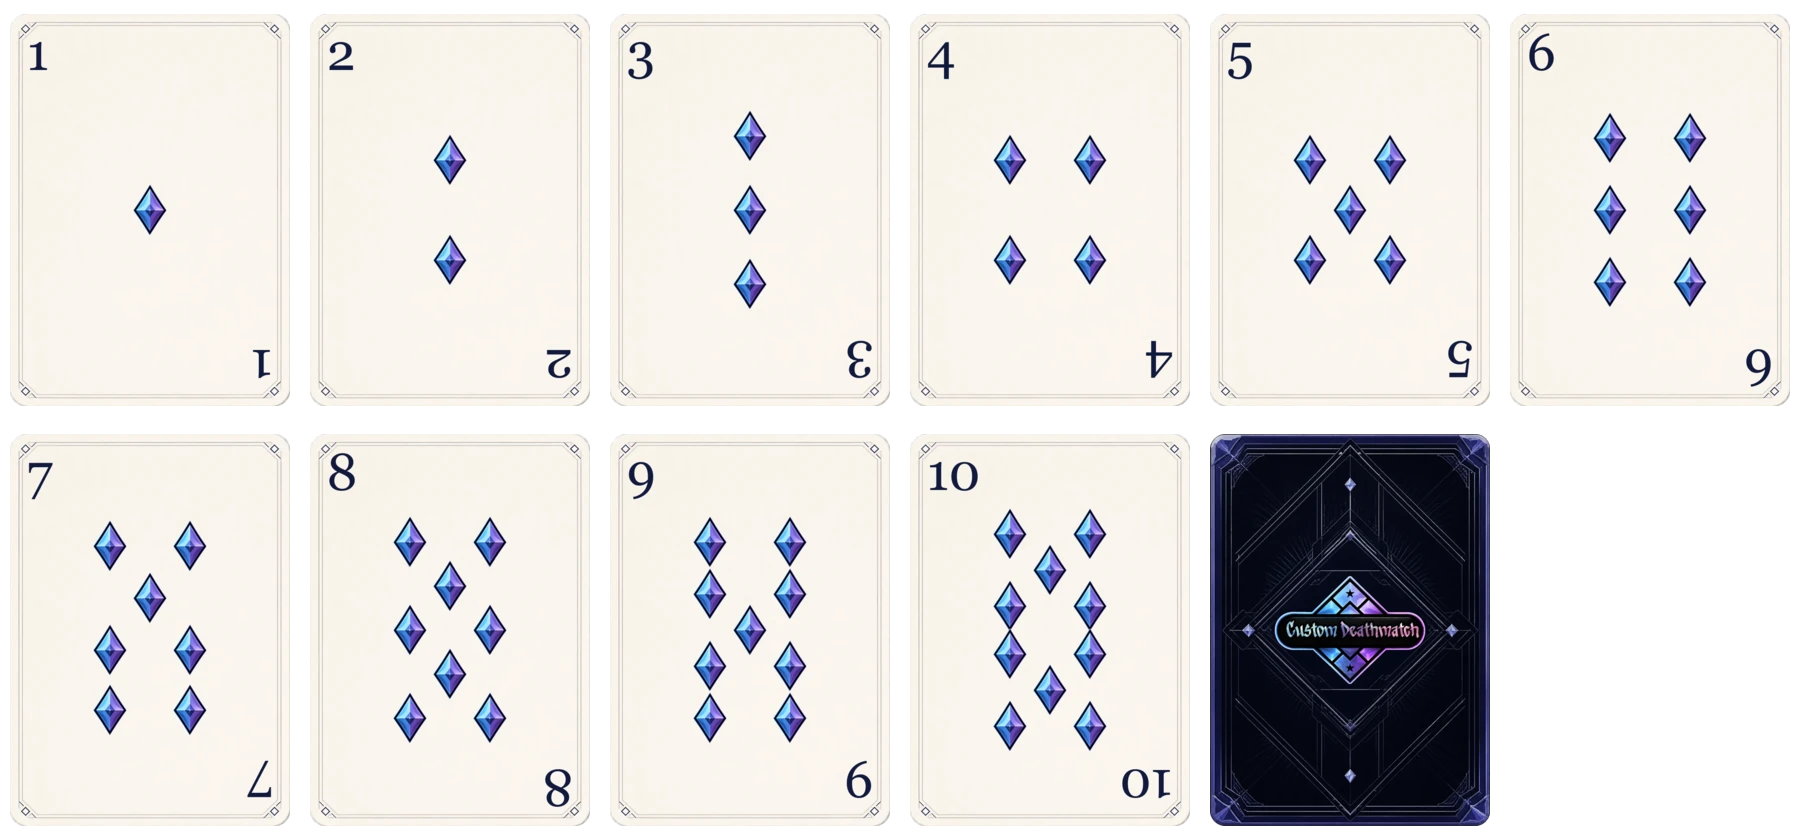
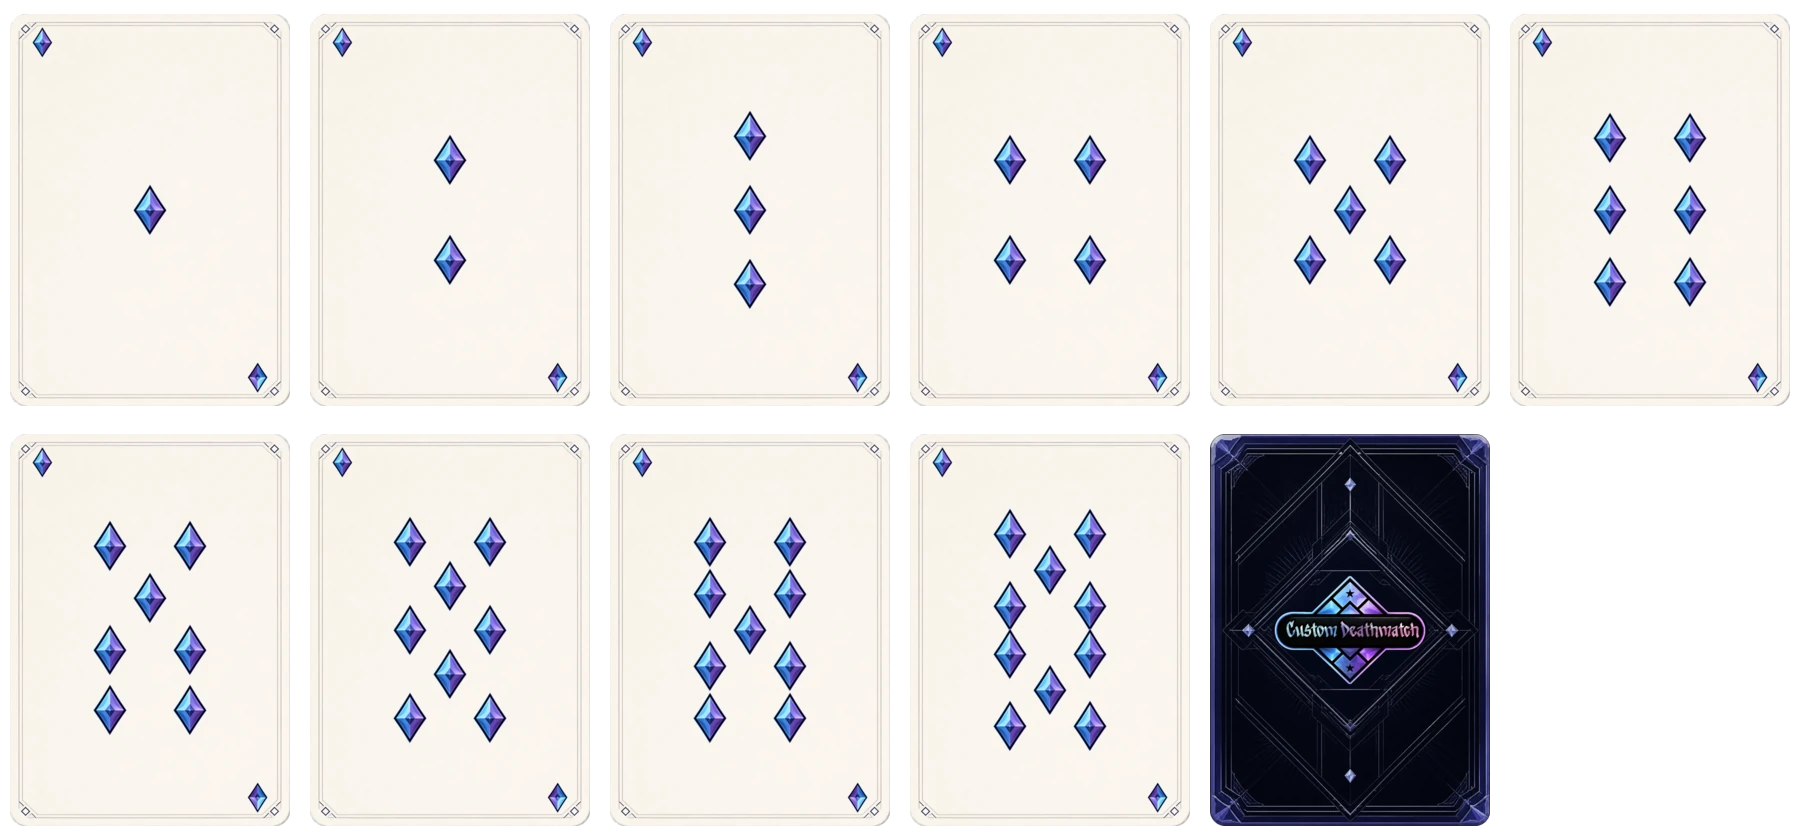
fix: replace card corner numbers with symbols

diff --git a/components/game/cards/DoubleSidedPokerCard.tsx b/components/game/cards/DoubleSidedPokerCard.tsx
@@ -3,14 +3,11 @@ import { cn } from '@/lib/utils';
 import styles from './DoubleSidedPokerCard.module.css';
 
 export type DoubleSidedPokerCardSize = 'tiny' | 'sm' | 'md' | 'lg';
-export type DoubleSidedPokerCardFace = 'front' | 'back' | 'hidden';
+export type DoubleSidedPokerCardFace = 'front' | 'back';
 
 const COLUMNS = 6;
 const ROWS = 4;
-const HIDDEN_INDEX = 20;
-
-function spriteIndex(value: number | null, face: DoubleSidedPokerCardFace) {
-  if (face === 'hidden' || value == null) return HIDDEN_INDEX;
+function spriteIndex(value: number, face: DoubleSidedPokerCardFace) {
   const safeValue = Math.min(10, Math.max(1, Math.trunc(value)));
   return (face === 'back' ? 10 : 0) + safeValue - 1;
 }
@@ -22,7 +19,7 @@ export default function DoubleSidedPokerCard({
   className,
   ariaLabel,
 }: {
-  value: number | null;
+  value: number;
   face: DoubleSidedPokerCardFace;
   size?: DoubleSidedPokerCardSize;
   className?: string;
@@ -34,10 +31,7 @@ export default function DoubleSidedPokerCard({
   const style: CSSProperties = {
     backgroundPosition: `${(column / (COLUMNS - 1)) * 100}% ${(row / (ROWS - 1)) * 100}%`,
   };
-  const label =
-    face === 'hidden' || value == null
-      ? '비공개 카드 뒷면'
-      : `${face === 'front' ? '앞면' : '뒷면'} 숫자 ${value}`;
+  const label = `${face === 'front' ? '앞면' : '뒷면'} 숫자 ${value}`;
   return (
     <span
       role="img"
@@ -45,7 +39,7 @@ export default function DoubleSidedPokerCard({
       className={cn(styles.card, styles[size], className)}
       style={style}
       data-card-face={face}
-      data-card-value={value ?? undefined}
+      data-card-value={value}
     />
   );
 }

diff --git a/components/game/modules/double-sided-poker/index.tsx b/components/game/modules/double-sided-poker/index.tsx
@@ -84,21 +84,24 @@ function PlayerPanel({
       </div>
 
       <div className="mt-2 flex items-end justify-center gap-2 sm:gap-3">
-        <div className="text-center">
-          <DoubleSidedPokerCard value={player.card?.front ?? null} face="front" size="md" />
-          <p className="text-cdm-fg mt-0.5 text-[10px] font-black">앞면 · 공개</p>
-        </div>
-        <div className="text-center">
-          <DoubleSidedPokerCard
-            value={player.card?.back ?? null}
-            face={player.card?.back == null ? 'hidden' : 'back'}
-            size="md"
-          />
-          <p className="text-cdm-fg mt-0.5 text-[10px] font-black">
-            {player.card?.back == null ? '뒷면 · 비공개' : '뒷면'}
-          </p>
-        </div>
+        {player.card && (
+          <div className="text-center">
+            <DoubleSidedPokerCard value={player.card.front} face="front" size="md" />
+            <p className="text-cdm-fg mt-0.5 text-[10px] font-black">앞면 · 공개</p>
+          </div>
+        )}
+        {player.card?.back != null && (
+          <div className="text-center">
+            <DoubleSidedPokerCard value={player.card.back} face="back" size="md" />
+            <p className="text-cdm-fg mt-0.5 text-[10px] font-black">뒷면 · 본인 공개</p>
+          </div>
+        )}
       </div>
+      {player.card && player.card.back == null && (
+        <p className="text-cdm-fg-subtle mt-1 text-center text-[10px] font-bold">
+          뒷면 숫자는 소유자만 확인할 수 있습니다.
+        </p>
+      )}
 
       <div className="mt-2 grid gap-1.5">
         <BetLane

diff --git a/components/archive/viewers/double-sided-poker/index.tsx b/components/archive/viewers/double-sided-poker/index.tsx
@@ -83,13 +83,14 @@ export default function DoubleSidedPokerViewer({ record }: { record: GameRecordF
                     <div key={playerId} className="bg-cdm-bg-elev-1 rounded-cdm-md p-2 text-center">
                       <p className="text-cdm-fg-muted truncate text-[10px]">{player.nickname}</p>
                       <div className="mt-1 flex justify-center gap-1">
-                        <DoubleSidedPokerCard value={card?.front ?? null} face="front" size="sm" />
-                        <DoubleSidedPokerCard
-                          value={card?.back ?? null}
-                          face={card?.back == null ? 'hidden' : 'back'}
-                          size="sm"
-                        />
+                        {card && <DoubleSidedPokerCard value={card.front} face="front" size="sm" />}
+                        {card?.back != null && (
+                          <DoubleSidedPokerCard value={card.back} face="back" size="sm" />
+                        )}
                       </div>
+                      {card && card.back == null && (
+                        <p className="text-cdm-fg-subtle mt-1 text-[9px]">뒷면 비공개</p>
+                      )}
                       <p className="text-cdm-fg mt-1 text-[10px] font-black">
                         {selection === 'both'
                           ? '양면베팅'
